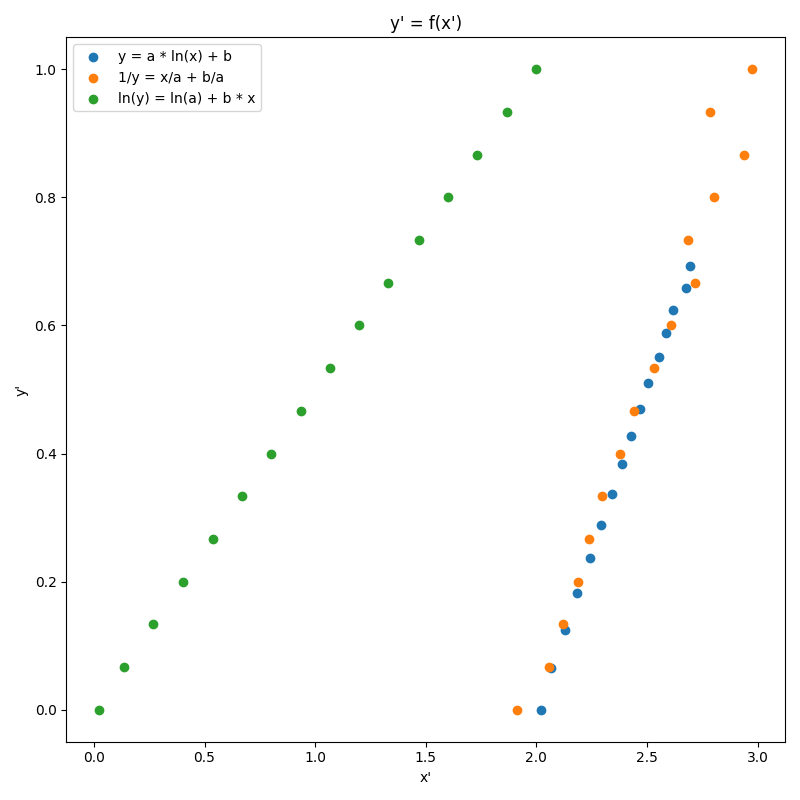
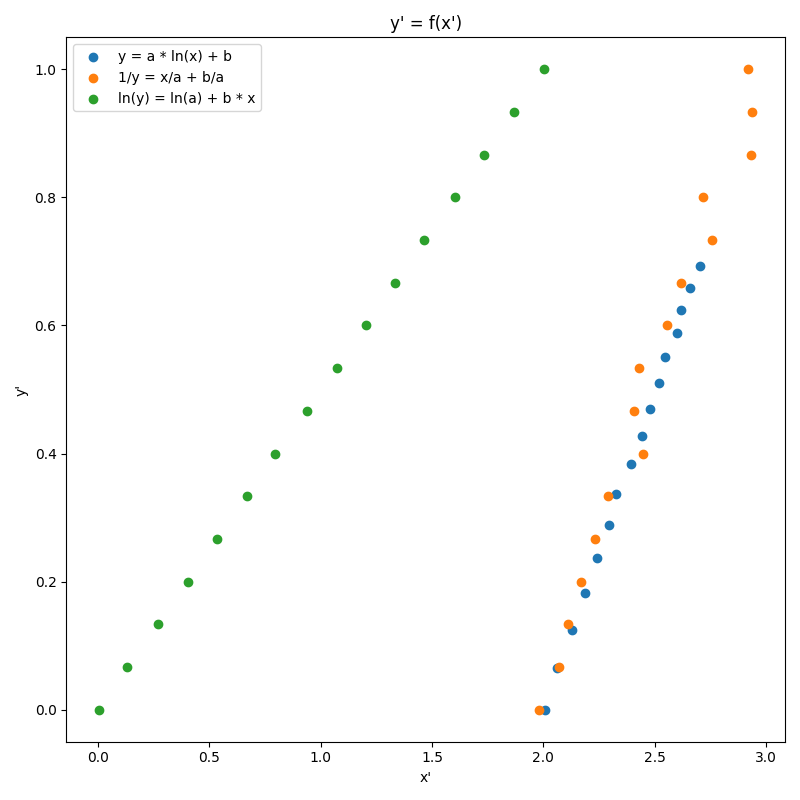
uniform dist images

diff --git a/generate_data.py b/generate_data.py
@@ -138,7 +138,8 @@ if __name__ == "__main__":
     residuals_max = -1e10
 
     for i, sigma in enumerate(noise_levels):
-        noise = Noise(mu=0, sigma=sigma, size=size)
+        # noise = Noise(mu=0, sigma=sigma, size=size)
+        noise = UniformNoise(mu=0, max_deviation=sigma, size=size)
 
         for j, (label, DataClass) in enumerate([
             ('Exponential', ExponentialData),
@@ -156,18 +157,18 @@ if __name__ == "__main__":
             # Wykres linearyzowany
             axs_linear[i, j].scatter(x_prime, y_prime, label="Dane liniaryzowane")
             axs_linear[i, j].plot(x_prime, y_pred, color="red", label=f"$R^2$={r2:.3f}")
-            axs_linear[i, j].set_title(f"{label} (σ={sigma}) - lin.")
+            axs_linear[i, j].set_title(f"{label} (max deviation={sigma}) - lin.")
             axs_linear[i, j].legend()
             axs_linear[i, j].grid(True)
 
             # Wykres oryginalny
             axs_original[i, j].scatter(data.x, data.y, label="Dane oryginalne")
-            axs_original[i, j].set_title(f"{label} (σ={sigma}) - orig.")
+            axs_original[i, j].set_title(f"{label} (max deviation={sigma}) - orig.")
             axs_original[i, j].grid(True)
 
             # Wykres reszt
             axs_residuals[i, j].bar(range(len(residuals)), residuals)
-            axs_residuals[i, j].set_title(f"{label} (σ={sigma}) - reszty")
+            axs_residuals[i, j].set_title(f"{label} (max deviation={sigma}) - reszty")
             axs_residuals[i, j].grid(True)
 
             if residuals_min > min(residuals):
@@ -185,11 +186,11 @@ if __name__ == "__main__":
                 item.set_fontsize(16)
 
     fig_linear.tight_layout()
-    fig_linear.savefig('linearized_all_sigmas.png')
+    fig_linear.savefig('linearized_all_sigmas_uniform.png')
     plt.close(fig_linear)
 
     fig_original.tight_layout()
-    fig_original.savefig('original_all_sigmas.png')
+    fig_original.savefig('original_all_sigmas_uniform.png')
     plt.close(fig_original)
 
     for i in range(len(noise_levels)):
@@ -199,5 +200,5 @@ if __name__ == "__main__":
     
 
     fig_residuals.tight_layout()
-    fig_residuals.savefig('residuals_all_sigmas.png')
+    fig_residuals.savefig('residuals_all_sigmas_uniform.png')
     plt.close(fig_residuals)
